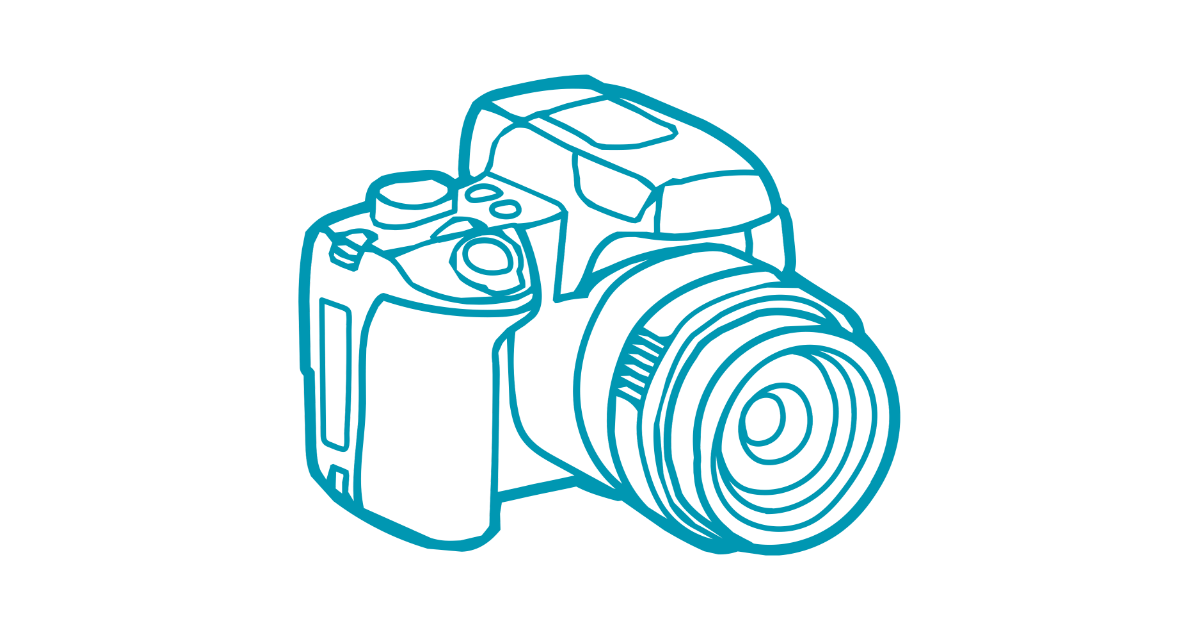
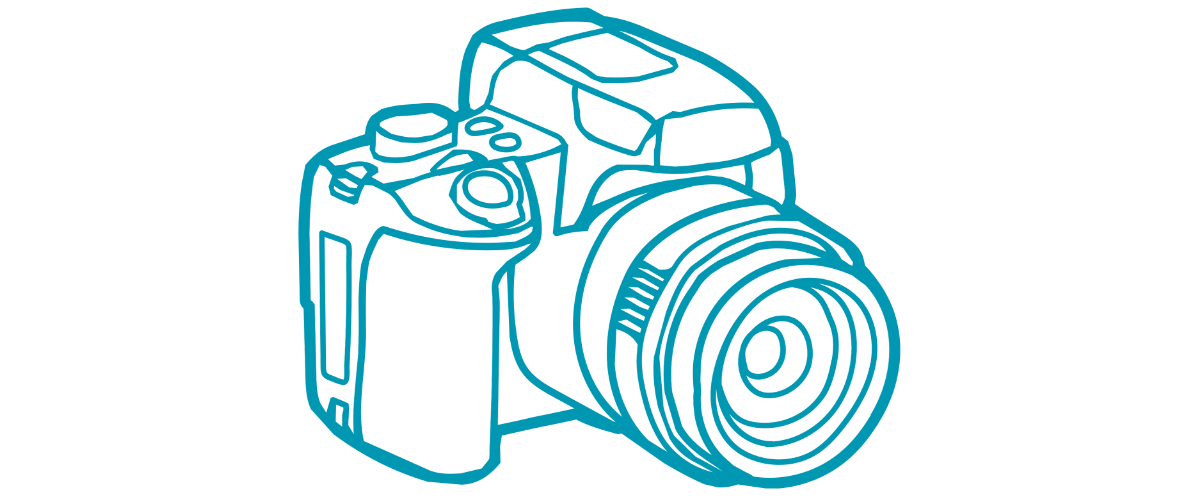
v4.11.2 - fix: layout sections parceiros responsividade 1920x1080px

Changed region(s): [[0.2467, 0.0, 0.7708, 0.99], [0.2467, 0.45, 0.2775, 0.48]]

diff --git a/style.css b/style.css
@@ -423,7 +423,7 @@ nav.is-menu-open .nav-toggle span:nth-child(3) {
 
 .cover-hero {
   position: relative;
-  min-height: calc(100vh - 88px);
+  min-height: calc(100vh + 80px);
   display: flex;
   align-items: center;
   justify-content: center;
@@ -1023,7 +1023,7 @@ footer {
   }
 
   .cover-hero {
-    min-height: calc(100svh - 72px);
+    min-height: calc(100svh + 60px);
     padding: 76px 24px 58px;
   }
 
@@ -1131,7 +1131,7 @@ footer {
   }
 
   .cover-hero {
-    min-height: 620px;
+    min-height: calc(100svh + 40px);
     padding: 76px 24px;
   }
 
@@ -1260,7 +1260,7 @@ footer {
   }
 
   .cover-hero {
-    min-height: 540px;
+    min-height: calc(100svh + 30px);
     padding: 62px 18px;
   }
 
@@ -2027,12 +2027,12 @@ footer {
   align-items: center;
   justify-content: center;
   gap: 10px;
-  min-height: 152px;
+  min-height: 80px;
   padding: 6px 0;
 }
 
 .p-section--partners .p-partner-icons img {
-  height: 140px;
+  height: 70px;
   width: auto;
   max-width: 100%;
   object-fit: contain;
@@ -2366,20 +2366,10 @@ footer {
 }
 
 .oficinas-logo-col img {
-  width: 220px;
+  width: 300px;
   height: auto;
   object-fit: contain;
   display: block;
-}
-
-.oficinas-logo-label {
-  font-size: 22px;
-  font-weight: 800;
-  color: #e0006e;
-  text-align: center;
-  line-height: 1.25;
-  letter-spacing: 0.5px;
-  text-transform: uppercase;
 }
 
 .oficinas-info-col {
@@ -2390,7 +2380,7 @@ footer {
 }
 
 .oficinas-desc {
-  font-size: 17px;
+  font-size: 27px;
   line-height: 1.6;
   color: #1a1a2e;
   font-weight: 700;

diff --git a/index.html b/index.html
@@ -556,7 +556,6 @@
       <div class="oficinas-logo-col">
         <img src="imagens/imagens_novas/parceiros_novos/oficina/multivideo_assitencia.png"
           alt="Multivídeo Assistência Técnica">
-        <span class="oficinas-logo-label">ASSISTÊNCIA<br>TÉCNICA</span>
       </div>
       <div class="oficinas-info-col">
         <p class="oficinas-desc">A MULTIVIDEO - Assistência técnica de projetores (data show/multimídia), equipamentos